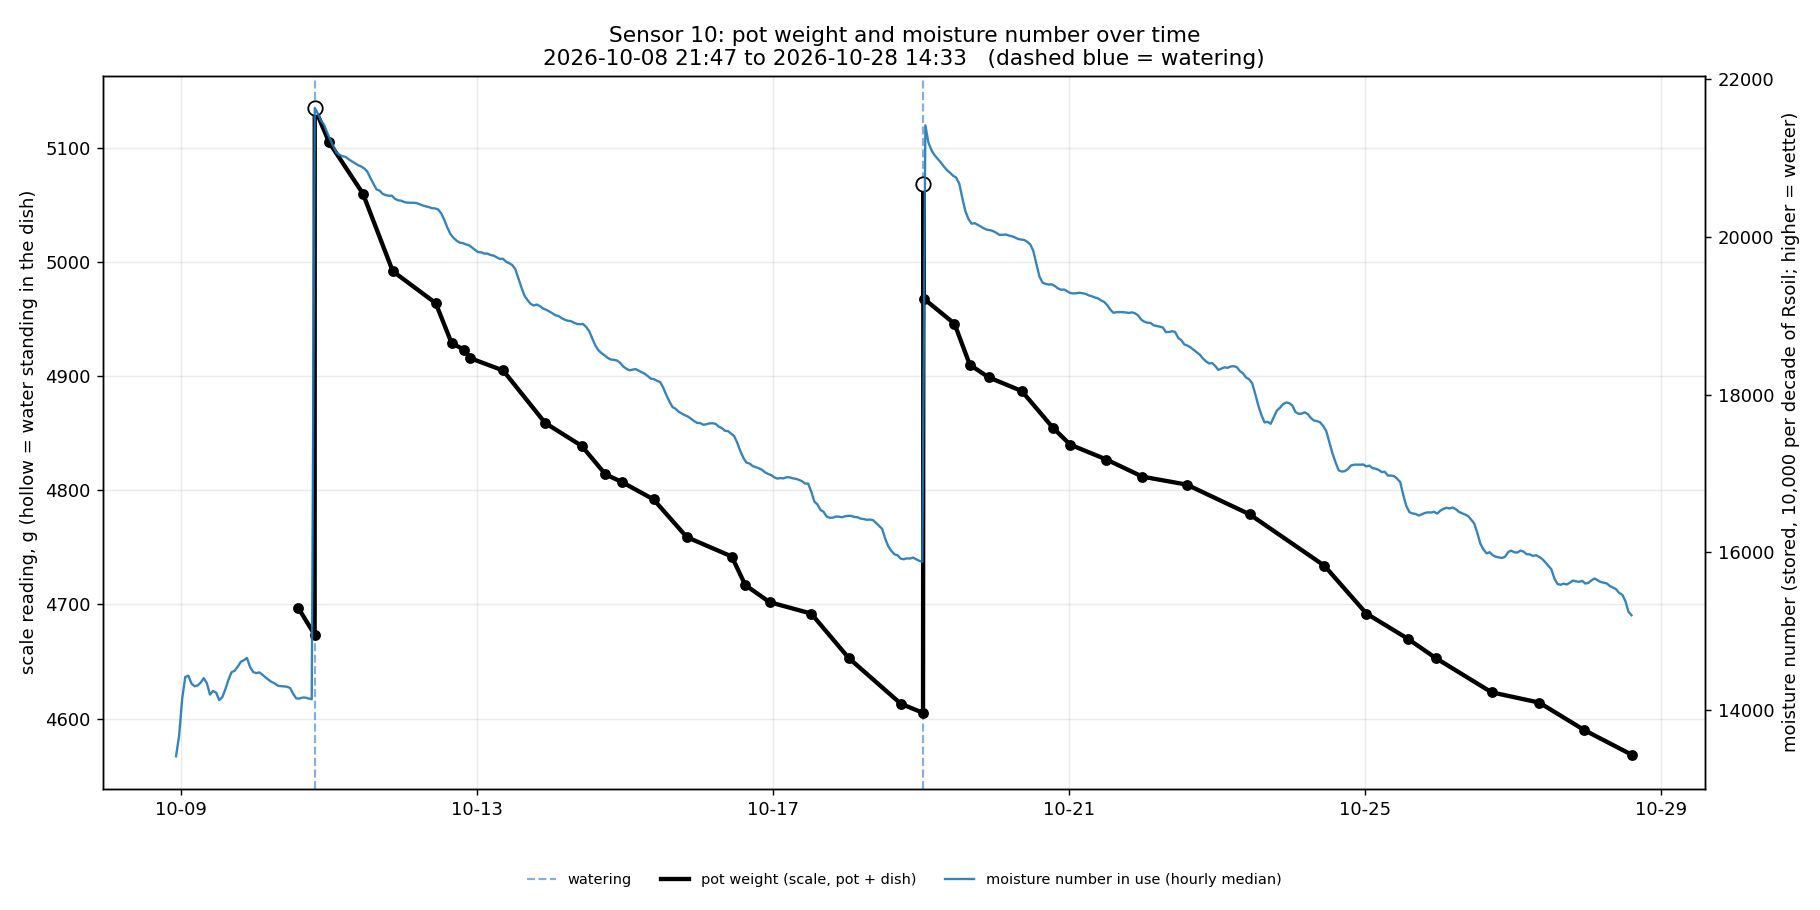
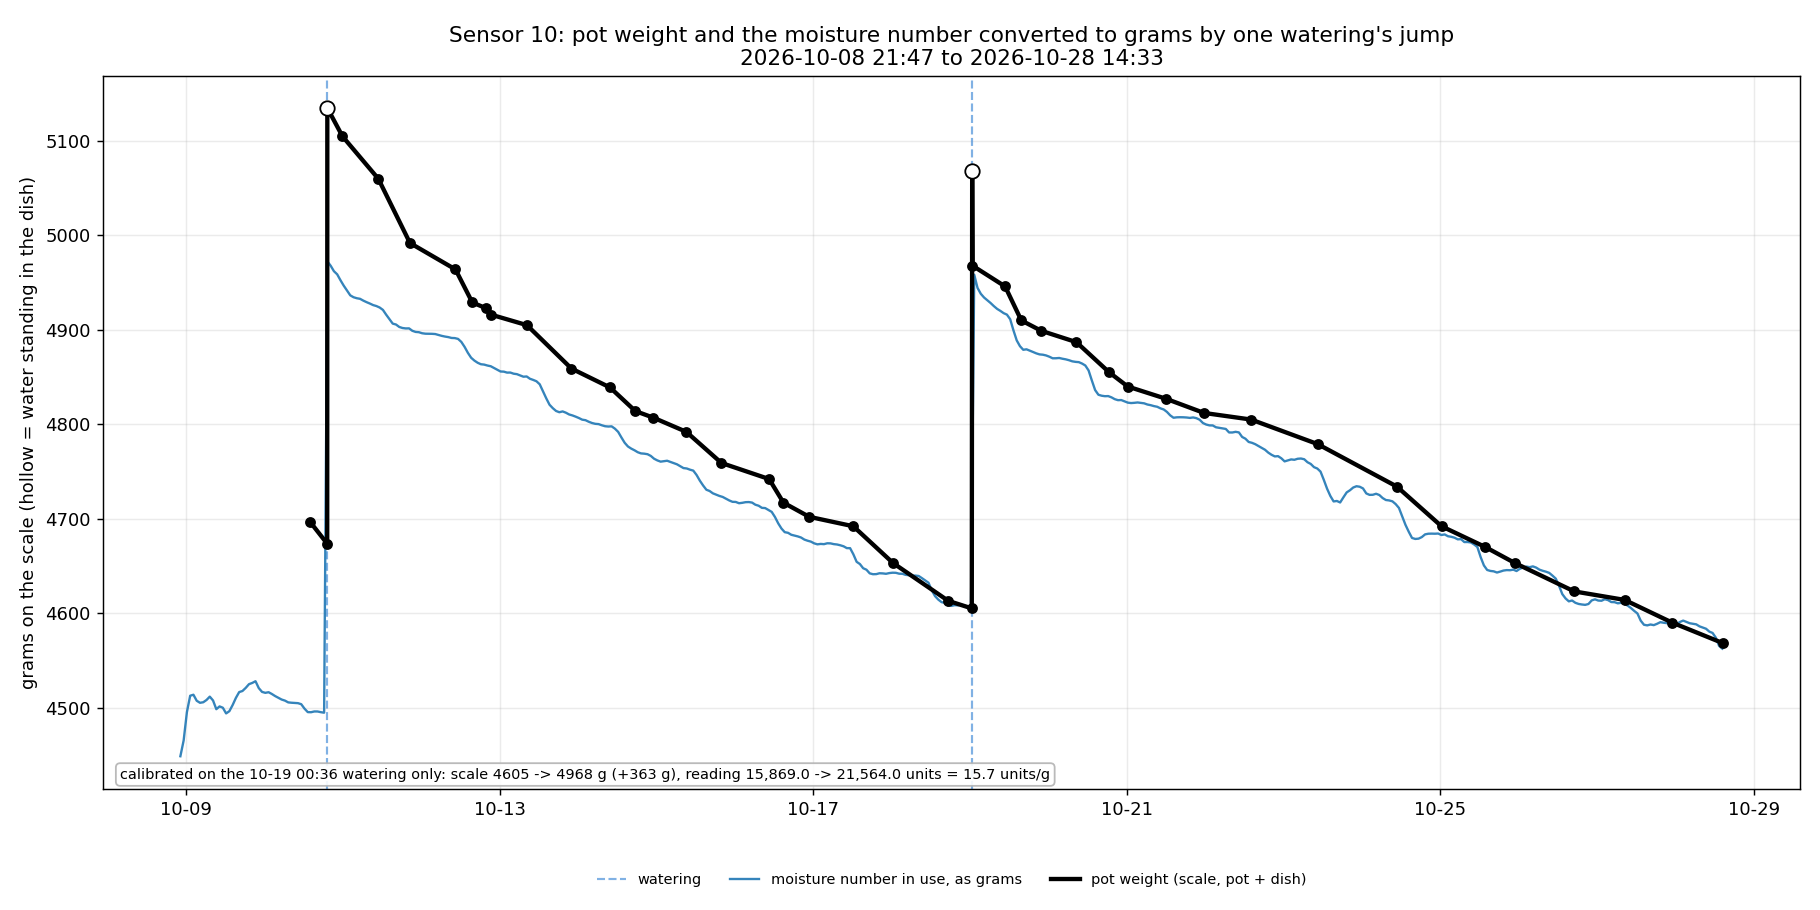
Mass vs moisture number / Cm: convert to grams by one watering's jump
The twin-axis version put two different variables on one plot. Each
reading is now converted to grams with the 10-19 watering alone (scale
4605 -> 4968 g, +363 g; number 15,869 -> 21,564 = 15.7 units/g; Cm
52.2 -> 154.8 pF = 0.282 pF/g) and drawn on the scale's axis, anchored at
the pre-watering weight. No line is fitted through later weighings.

diff --git a/MSV4/scripts/msv4_mass_vs_value_plot.py b/MSV4/scripts/msv4_mass_vs_value_plot.py
@@ -1,19 +1,29 @@
-"""Pot mass over time against one sensor reading over time, in the reading's OWN units.
+"""Pot mass over time against one sensor reading converted to grams by a watering's jump.
 
-msv4_moisture_plot.py converts every candidate to grams of water through a fitted line, which is
-the right view for scoring but hides the raw shape. This puts the scale on the left axis (one
-black curve through the weighings) and the reading on the right axis, unconverted, so the two
-shapes can be compared by eye. Two figures are written beside the input CSV:
+One watering calibrates the reading, nothing else does: the scale weighed the pot just before and
+just after, so grams added = after - before, and the reading moved by (reading after - reading
+before) over the same minutes. gain = reading change / grams added; the reading is then drawn as
 
-  msv4_mass_vs_moisture_number.png   the moisture number in use (what the receiver stores)
-  msv4_mass_vs_cm.png                contact capacitance Cm in pF, raw hourly median, with the
-                                     temperature-corrected Cm (fitted tip coefficient) as a second line
+    grams(t) = scale_before + (reading(t) - reading_before) / gain
 
-    python MSV4/scripts/msv4_mass_vs_value_plot.py data/sensor_logs/<sensor10 history>.csv [--out-dir DIR]
+on the scale's own axis, anchored at the pre-watering weighing. No line is fitted through the later
+weighings, so any gap to the black curve is the calibration failing to hold, not a fit hiding it.
+
+The calibration watering is the LAST one with a clean pair (a dry-dish weighing within 30 min after
+and one within 30 min before), or --watering N (0 = first). Reading "after" is the median over the
+30 min starting at the after-weighing; the reading keeps settling for hours, so this choice moves
+the gain by a few percent (printed).
+
+Two figures are written beside the input CSV:
+  msv4_mass_vs_moisture_number.png   moisture number in use (as built, 2 %/C corrected)
+  msv4_mass_vs_cm.png                Cm raw and corrected to 25 C by the fitted tip coefficient
+
+    python MSV4/scripts/msv4_mass_vs_value_plot.py data/sensor_logs/<sensor10 history>.csv [--watering N]
 """
 from __future__ import annotations
 
 import argparse
+import statistics
 from datetime import timedelta
 from pathlib import Path
 
@@ -27,36 +37,49 @@ import msv4_experimental_moisture as reading
 import msv4_moisture_competition as comp
 import msv4_moisture_tempcorr as tempcorr
 
-BLACK, BLUE, ORANGE = "black", "#1f77b4", "#d95f02"
+CLEAN_MIN = 30
 
 
-def hourly_line(rows, value):
-    t0 = rows[0]["time"]
-    return [(t0 + timedelta(hours=h + 0.5), m) for h, m, _ in comp.hourly(rows, value)]
+def median_in(rows, value, start, end):
+    v = [x for x in (value(r) for r in rows if start <= r["time"] < end) if x is not None]
+    return (statistics.median(v), len(v)) if v else (None, 0)
 
 
-def figure(rows, weighings, waterings, series, ylabel, title, out):
+def calibrate(rows, weighings, watering, value):
+    """(gain in reading units per gram, scale_before, reading_before, scale_after, reading_after) or None."""
+    dry = [w for w in weighings if w["saucer"] is False]
+    before = [w for w in dry if watering - timedelta(minutes=CLEAN_MIN) <= w["time"] < watering]
+    after = [w for w in dry if watering <= w["time"] <= watering + timedelta(minutes=CLEAN_MIN)]
+    if not before or not after:
+        return None
+    b, a = before[-1], after[0]
+    vb, nb = median_in(rows, value, b["time"] - timedelta(minutes=55), b["time"] + timedelta(minutes=5))
+    va, na = median_in(rows, value, a["time"], a["time"] + timedelta(minutes=30))
+    if vb is None or va is None or a["grams"] <= b["grams"]:
+        return None
+    return (va - vb) / (a["grams"] - b["grams"]), b["grams"], vb, a["grams"], va
+
+
+def figure(rows, weighings, waterings, series, title, out, note):
     fig, ax = plt.subplots(figsize=(14, 7))
     for i, w in enumerate(waterings):
         ax.axvline(w, color="#4a90d9", lw=1.2, ls="--", alpha=0.7, label="watering" if i == 0 else None)
-    ax.plot([w["time"] for w in weighings], [w["grams"] for w in weighings], color=BLACK, lw=2.4, zorder=5,
+    for label, line, color in series:
+        ax.plot([t for t, _ in line], [g for _, g in line], color=color, lw=1.3, alpha=0.9, label=label)
+    ax.plot([w["time"] for w in weighings], [w["grams"] for w in weighings], color="black", lw=2.4, zorder=5,
             label="pot weight (scale, pot + dish)")
     for w in weighings:
         if w["saucer"] is False:
-            ax.errorbar(w["time"], w["grams"], yerr=max(w["spread"], 1) / 2, fmt="o", color=BLACK, ms=5, zorder=6)
+            ax.errorbar(w["time"], w["grams"], yerr=max(w["spread"], 1) / 2, fmt="o", color="black", ms=5, zorder=6)
         else:
-            ax.plot(w["time"], w["grams"], "o" if w["saucer"] else "x", mfc="white", color=BLACK, ms=8, zorder=6)
-    ax.set_ylabel("scale reading, g (hollow = water standing in the dish)")
-    ax.grid(alpha=0.25)
-    right = ax.twinx()
-    for (label, line, color, lw) in series:
-        right.plot([t for t, _ in line], [v for _, v in line], color=color, lw=lw, alpha=0.9, label=label)
-    right.set_ylabel(ylabel)
-    ax.set_title(title + f"\n{rows[0]['time']:%Y-%m-%d %H:%M} to {rows[-1]['time']:%Y-%m-%d %H:%M}   (dashed blue = watering)")
+            ax.plot(w["time"], w["grams"], "o" if w["saucer"] else "x", mfc="white", color="black", ms=8, zorder=6)
+    ax.set_ylabel("grams on the scale (hollow = water standing in the dish)")
+    ax.set_title(title + f"\n{rows[0]['time']:%Y-%m-%d %H:%M} to {rows[-1]['time']:%Y-%m-%d %H:%M}")
+    ax.text(0.01, 0.01, note, transform=ax.transAxes, fontsize=8, va="bottom",
+            bbox=dict(boxstyle="round", fc="white", ec="0.7", alpha=0.9))
     ax.xaxis.set_major_formatter(mdates.DateFormatter("%m-%d", tz=rows[0]["time"].tzinfo))
-    h1, l1 = ax.get_legend_handles_labels()
-    h2, l2 = right.get_legend_handles_labels()
-    ax.legend(h1 + h2, l1 + l2, loc="upper center", bbox_to_anchor=(0.5, -0.1), ncol=4, fontsize=8, frameon=False)
+    ax.grid(alpha=0.25)
+    ax.legend(loc="upper center", bbox_to_anchor=(0.5, -0.1), ncol=4, fontsize=8, frameon=False)
     fig.tight_layout()
     fig.savefig(out, dpi=130)
     plt.close(fig)
@@ -67,6 +90,7 @@ def main() -> None:
     parser = argparse.ArgumentParser(description=__doc__, formatter_class=argparse.RawDescriptionHelpFormatter)
     parser.add_argument("csv", type=Path)
     parser.add_argument("--out-dir", type=Path)
+    parser.add_argument("--watering", type=int, help="index of the calibration watering (0 = first); default the last clean one")
     args = parser.parse_args()
     rows = [r for r in reading.load(args.csv, None) if r["coupled"] is not None]
     if not rows:
@@ -78,19 +102,44 @@ def main() -> None:
 
     number = lambda r: r["stored"] if not r["open"] else None
     cm = lambda r: r["cm"] if not r["open"] else None
-    figure(rows, merged, waterings, [("moisture number in use (hourly median)", hourly_line(rows, number), BLUE, 1.3)],
-           "moisture number (stored, 10,000 per decade of Rsoil; higher = wetter)",
-           f"Sensor {sensor}: pot weight and moisture number over time", out_dir / "msv4_mass_vs_moisture_number.png")
-
     days = comp.dry_days(rows, waterings)
-    series = [("Cm raw (hourly median)", hourly_line(rows, cm), BLUE, 1.3)]
-    if days:
-        k, se, _ = tempcorr.fit_k(days[0], cm)
-        corrected = lambda r: (r["cm"] - k * (r["tip"] - tempcorr.REF_C)) if (not r["open"] and r["tip"] is not None) else None
-        series.append((f"Cm corrected to {tempcorr.REF_C:g} C ({k:+.3f} pF/C fitted on {days[0][0]['time']:%m-%d})",
-                       hourly_line(rows, corrected), ORANGE, 1.3))
-    figure(rows, merged, waterings, series, "contact capacitance Cm, pF",
-           f"Sensor {sensor}: pot weight and Cm over time", out_dir / "msv4_mass_vs_cm.png")
+    k_cm = tempcorr.fit_k(days[0], cm)[0] if days else None
+    cm_corrected = lambda r: (r["cm"] - k_cm * (r["tip"] - tempcorr.REF_C)) if (not r["open"] and r["tip"] is not None) else None
+
+    candidates = [i for i in range(len(waterings)) if calibrate(rows, merged, waterings[i], number)]
+    if not candidates:
+        raise SystemExit("no watering has a dry-dish weighing within 30 min on both sides")
+    idx = args.watering if args.watering is not None else candidates[-1]
+    t_cal = waterings[idx]
+
+    def converted(value, base):
+        cal = calibrate(rows, merged, t_cal, base)
+        gain, sb, vb, sa, va = cal
+        t0 = rows[0]["time"]
+        line = [(t0 + timedelta(hours=h + 0.5), sb + (m - vb) / gain) for h, m, _ in comp.hourly(rows, value)]
+        return line, cal
+
+    def note_for(cal, unit):
+        gain, sb, vb, sa, va = cal
+        return (f"calibrated on the {t_cal:%m-%d %H:%M} watering only: scale {sb:.0f} -> {sa:.0f} g (+{sa - sb:.0f} g), "
+                f"reading {vb:,.1f} -> {va:,.1f} {unit} = {gain:.3g} {unit}/g")
+
+    line, cal = converted(number, number)
+    print("moisture number:", note_for(cal, "units"))
+    figure(rows, merged, waterings, [("moisture number in use, as grams", line, "#1f77b4")],
+           f"Sensor {sensor}: pot weight and the moisture number converted to grams by one watering's jump",
+           out_dir / "msv4_mass_vs_moisture_number.png", note_for(cal, "units"))
+
+    series = []
+    line_raw, cal = converted(cm, cm)
+    series.append(("Cm raw, as grams", line_raw, "#1f77b4"))
+    print("Cm raw:", note_for(cal, "pF"))
+    if k_cm is not None:
+        line_cor, cal_cor = converted(cm_corrected, cm_corrected)
+        series.append((f"Cm corrected to {tempcorr.REF_C:g} C ({k_cm:+.3f} pF/C), as grams", line_cor, "#d95f02"))
+        print("Cm corrected:", note_for(cal_cor, "pF"))
+    figure(rows, merged, waterings, series, f"Sensor {sensor}: pot weight and Cm converted to grams by one watering's jump",
+           out_dir / "msv4_mass_vs_cm.png", note_for(cal, "pF") + " (raw)")
 
 
 if __name__ == "__main__":
